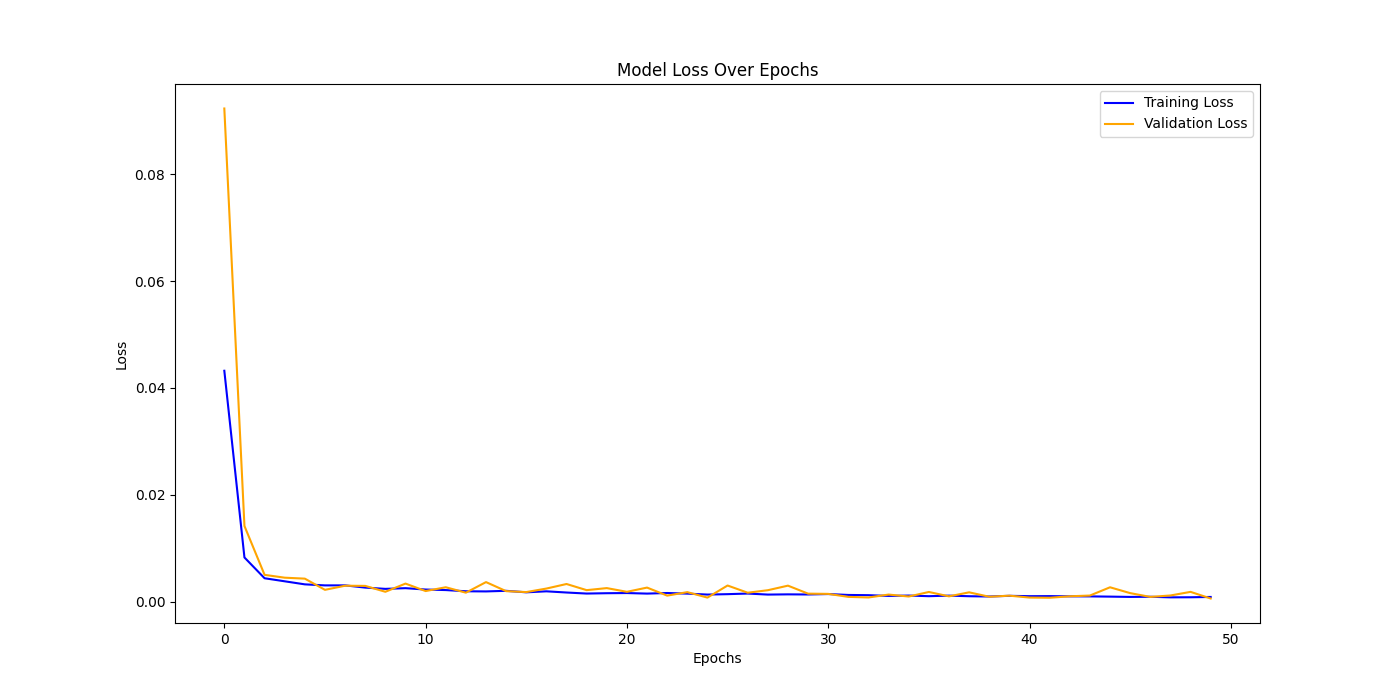
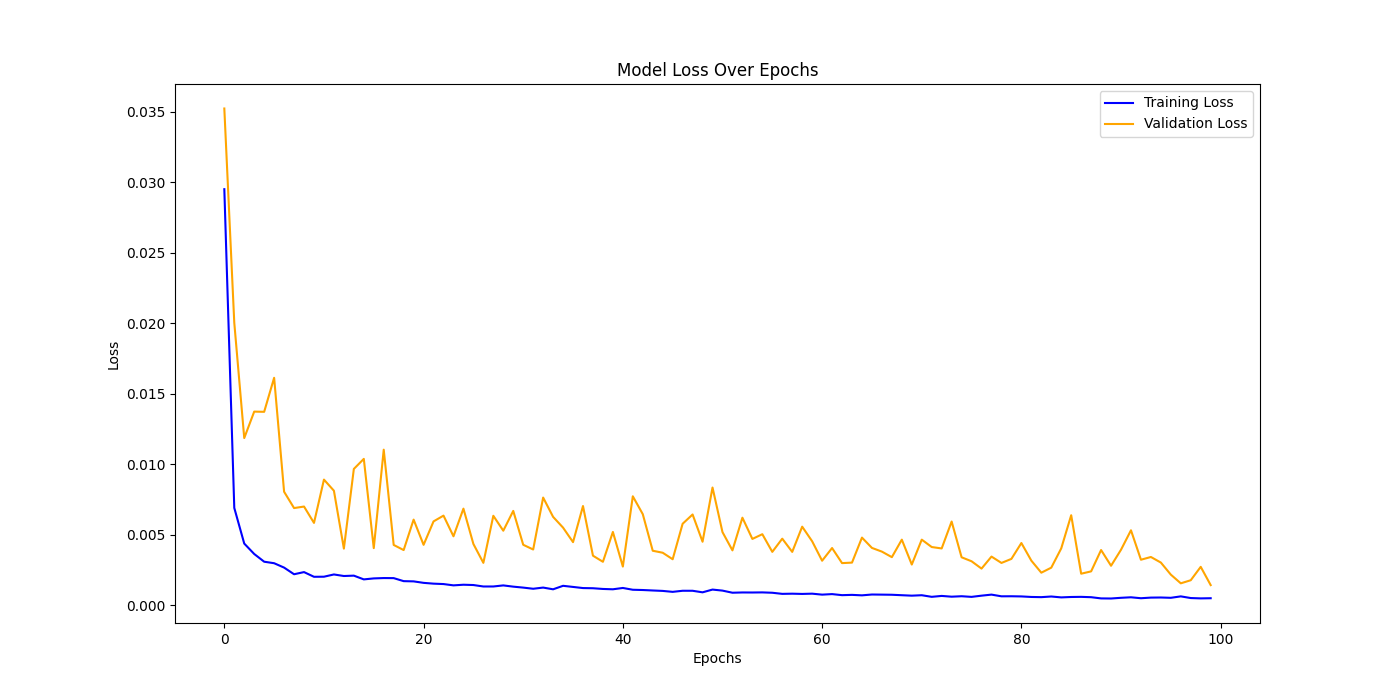
added new code suggestions

diff --git a/2_lstm_with_indicators/lstm_with_indicators.py b/2_lstm_with_indicators/lstm_with_indicators.py
@@ -1,6 +1,7 @@
 import logging
 import os
 
+import joblib
 import matplotlib
 import matplotlib.pyplot as plt
 import numpy as np
@@ -9,13 +10,15 @@ import yfinance as yf
 from sklearn.metrics import mean_squared_error, r2_score
 from sklearn.preprocessing import MinMaxScaler
 from tensorflow.keras import Sequential
-from tensorflow.keras.layers import Input, LSTM, Dense, Dropout
+from tensorflow.keras.layers import Input, LSTM, Dense, Dropout, Bidirectional
 from tensorflow.keras.optimizers import Adam
 
 matplotlib.use("TkAgg")  # Use the TkAgg backend for plotting
 
-# Create logs directory if not exists
+# Create directories if not exists
 os.makedirs("logs", exist_ok=True)
+os.makedirs("plots", exist_ok=True)
+os.makedirs("models", exist_ok=True)
 
 # Configure logging
 logging.basicConfig(
@@ -76,6 +79,7 @@ data = data.dropna()
 # Prepare training data
 scaler = MinMaxScaler(feature_range=(0, 1))
 scaled_data = scaler.fit_transform(data[['Close', 'RSI', 'Lower_Band', 'Upper_Band', 'Daily_Log_Return']].values)
+joblib.dump(scaler, "models/scaler.pkl")  # Save scaler for later use
 
 look_back = 60
 X_train, y_train = create_dataset(scaled_data, look_back)
@@ -87,11 +91,11 @@ X_train = np.reshape(X_train, (X_train.shape[0], X_train.shape[1], X_train.shape
 log_and_print("Building the LSTM model...")
 model = Sequential([
     Input(shape=(X_train.shape[1], X_train.shape[2])),  # Explicit input layer
-    LSTM(units=50, return_sequences=True),
-    Dropout(0.2),  # Regularization
-    LSTM(units=50, return_sequences=False),
-    Dropout(0.2),
-    Dense(units=25),
+    Bidirectional(LSTM(units=50, return_sequences=True)),
+    Dropout(0.3),  # Increased regularization
+    Bidirectional(LSTM(units=50, return_sequences=False)),
+    Dropout(0.3),
+    Dense(units=25, activation='relu'),
     Dense(units=1)
 ])
 log_and_print("Model built successfully.")
@@ -101,8 +105,12 @@ model.compile(optimizer=Adam(learning_rate=0.001), loss='mean_squared_error')
 
 # Train the model with validation split
 log_and_print("Starting model training...")
-history = model.fit(X_train, y_train, epochs=50, batch_size=64, validation_split=0.2)
+history = model.fit(X_train, y_train, epochs=100, batch_size=64, validation_split=0.2)
 log_and_print("Model training completed.")
+
+# Save model
+model.save("models/stock_lstm_model.h5")
+log_and_print("Model saved successfully.")
 
 # Fetch test data
 test_start_date = "2024-01-01"
